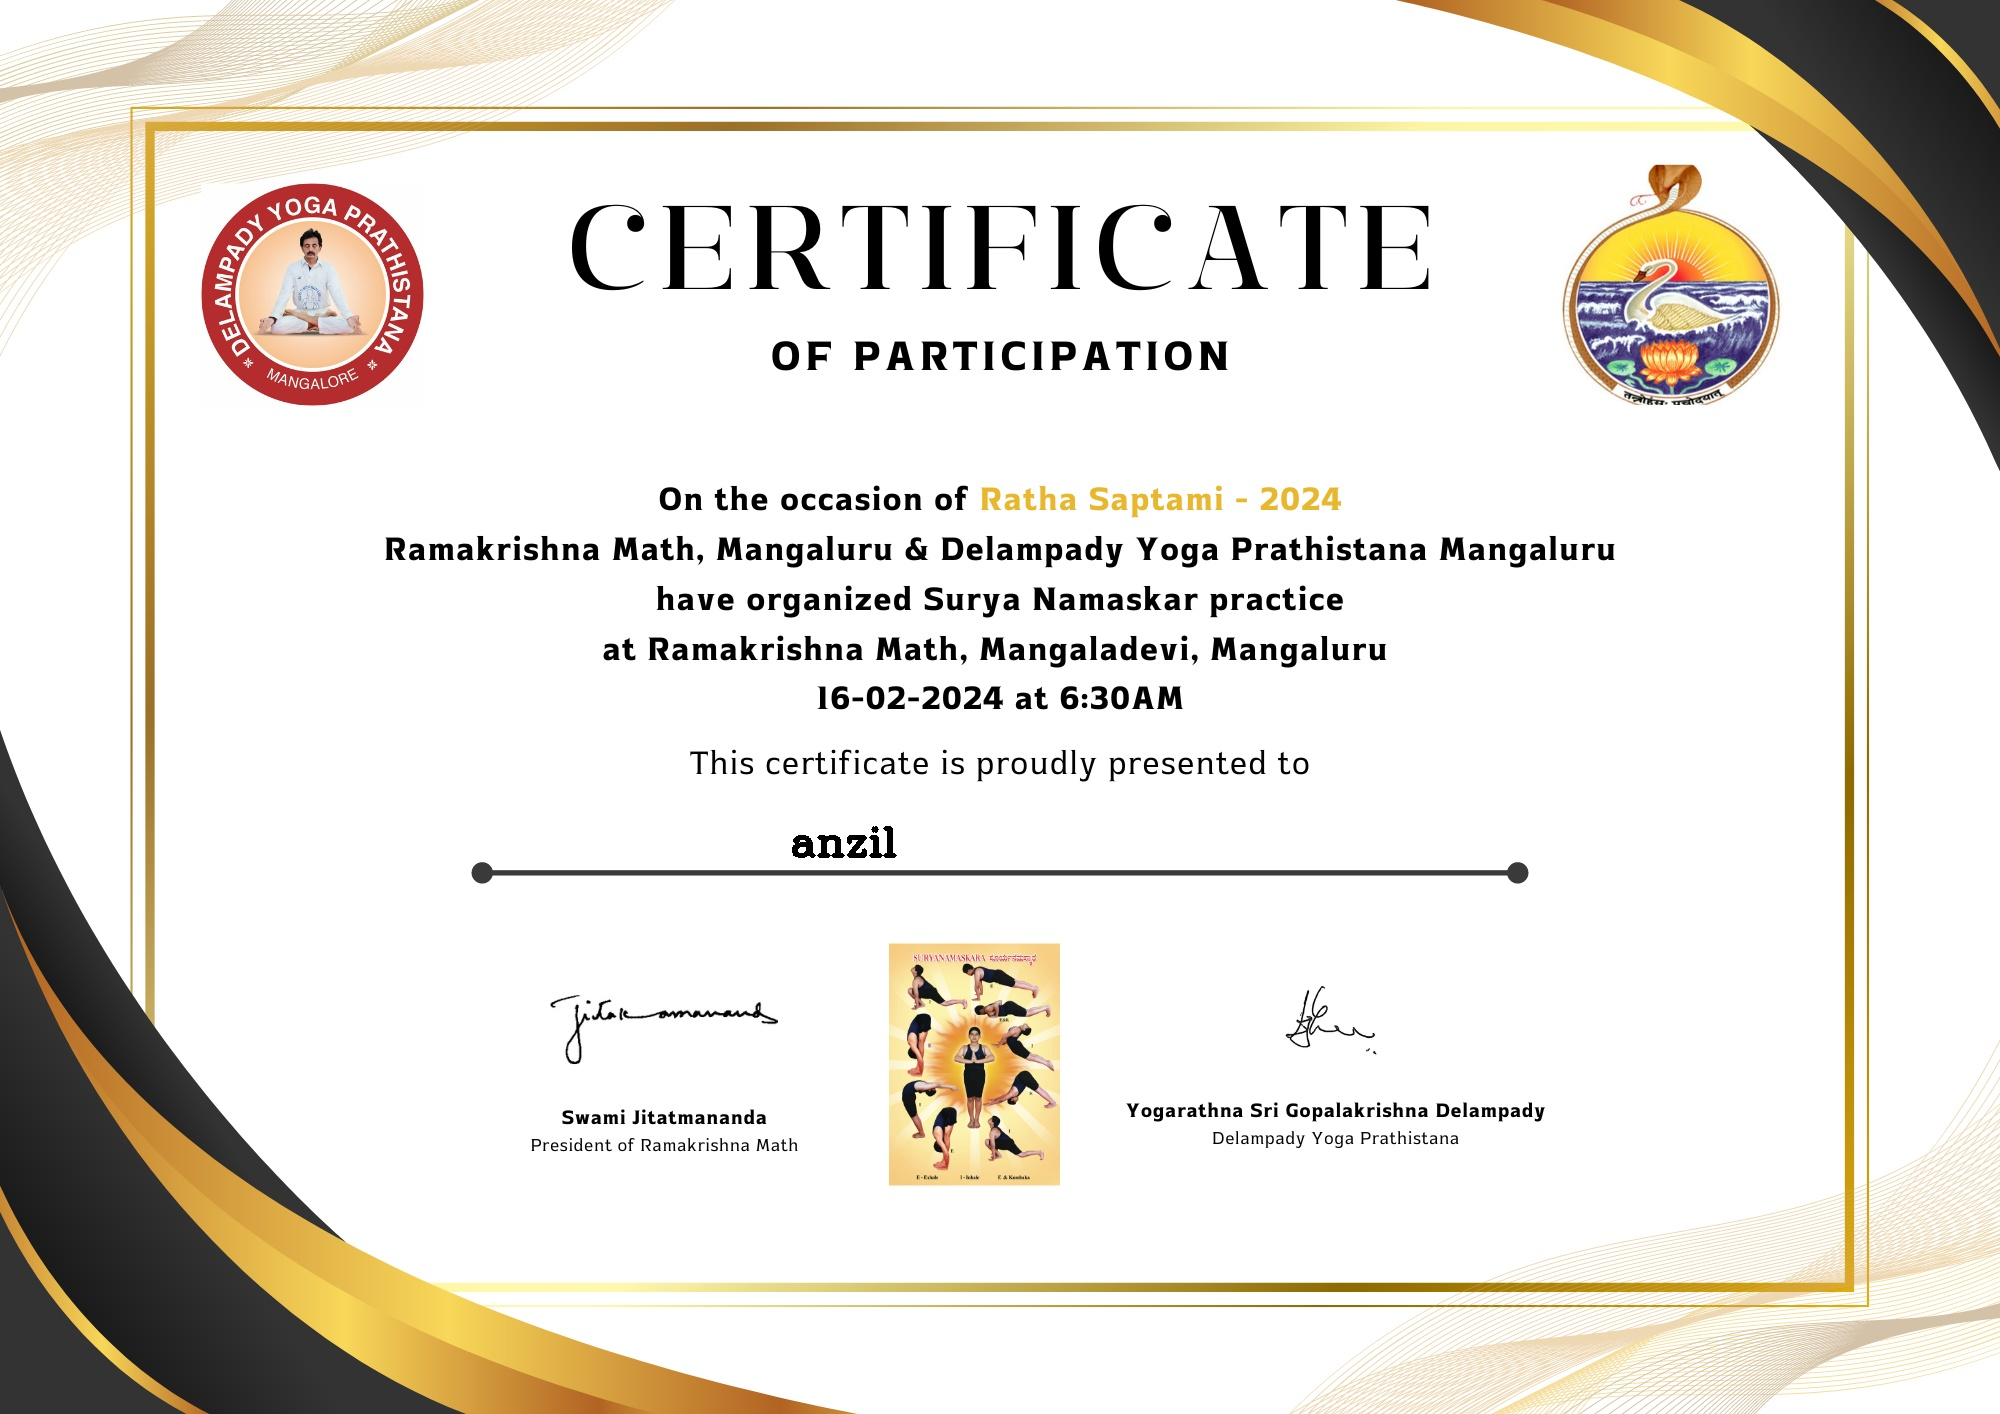
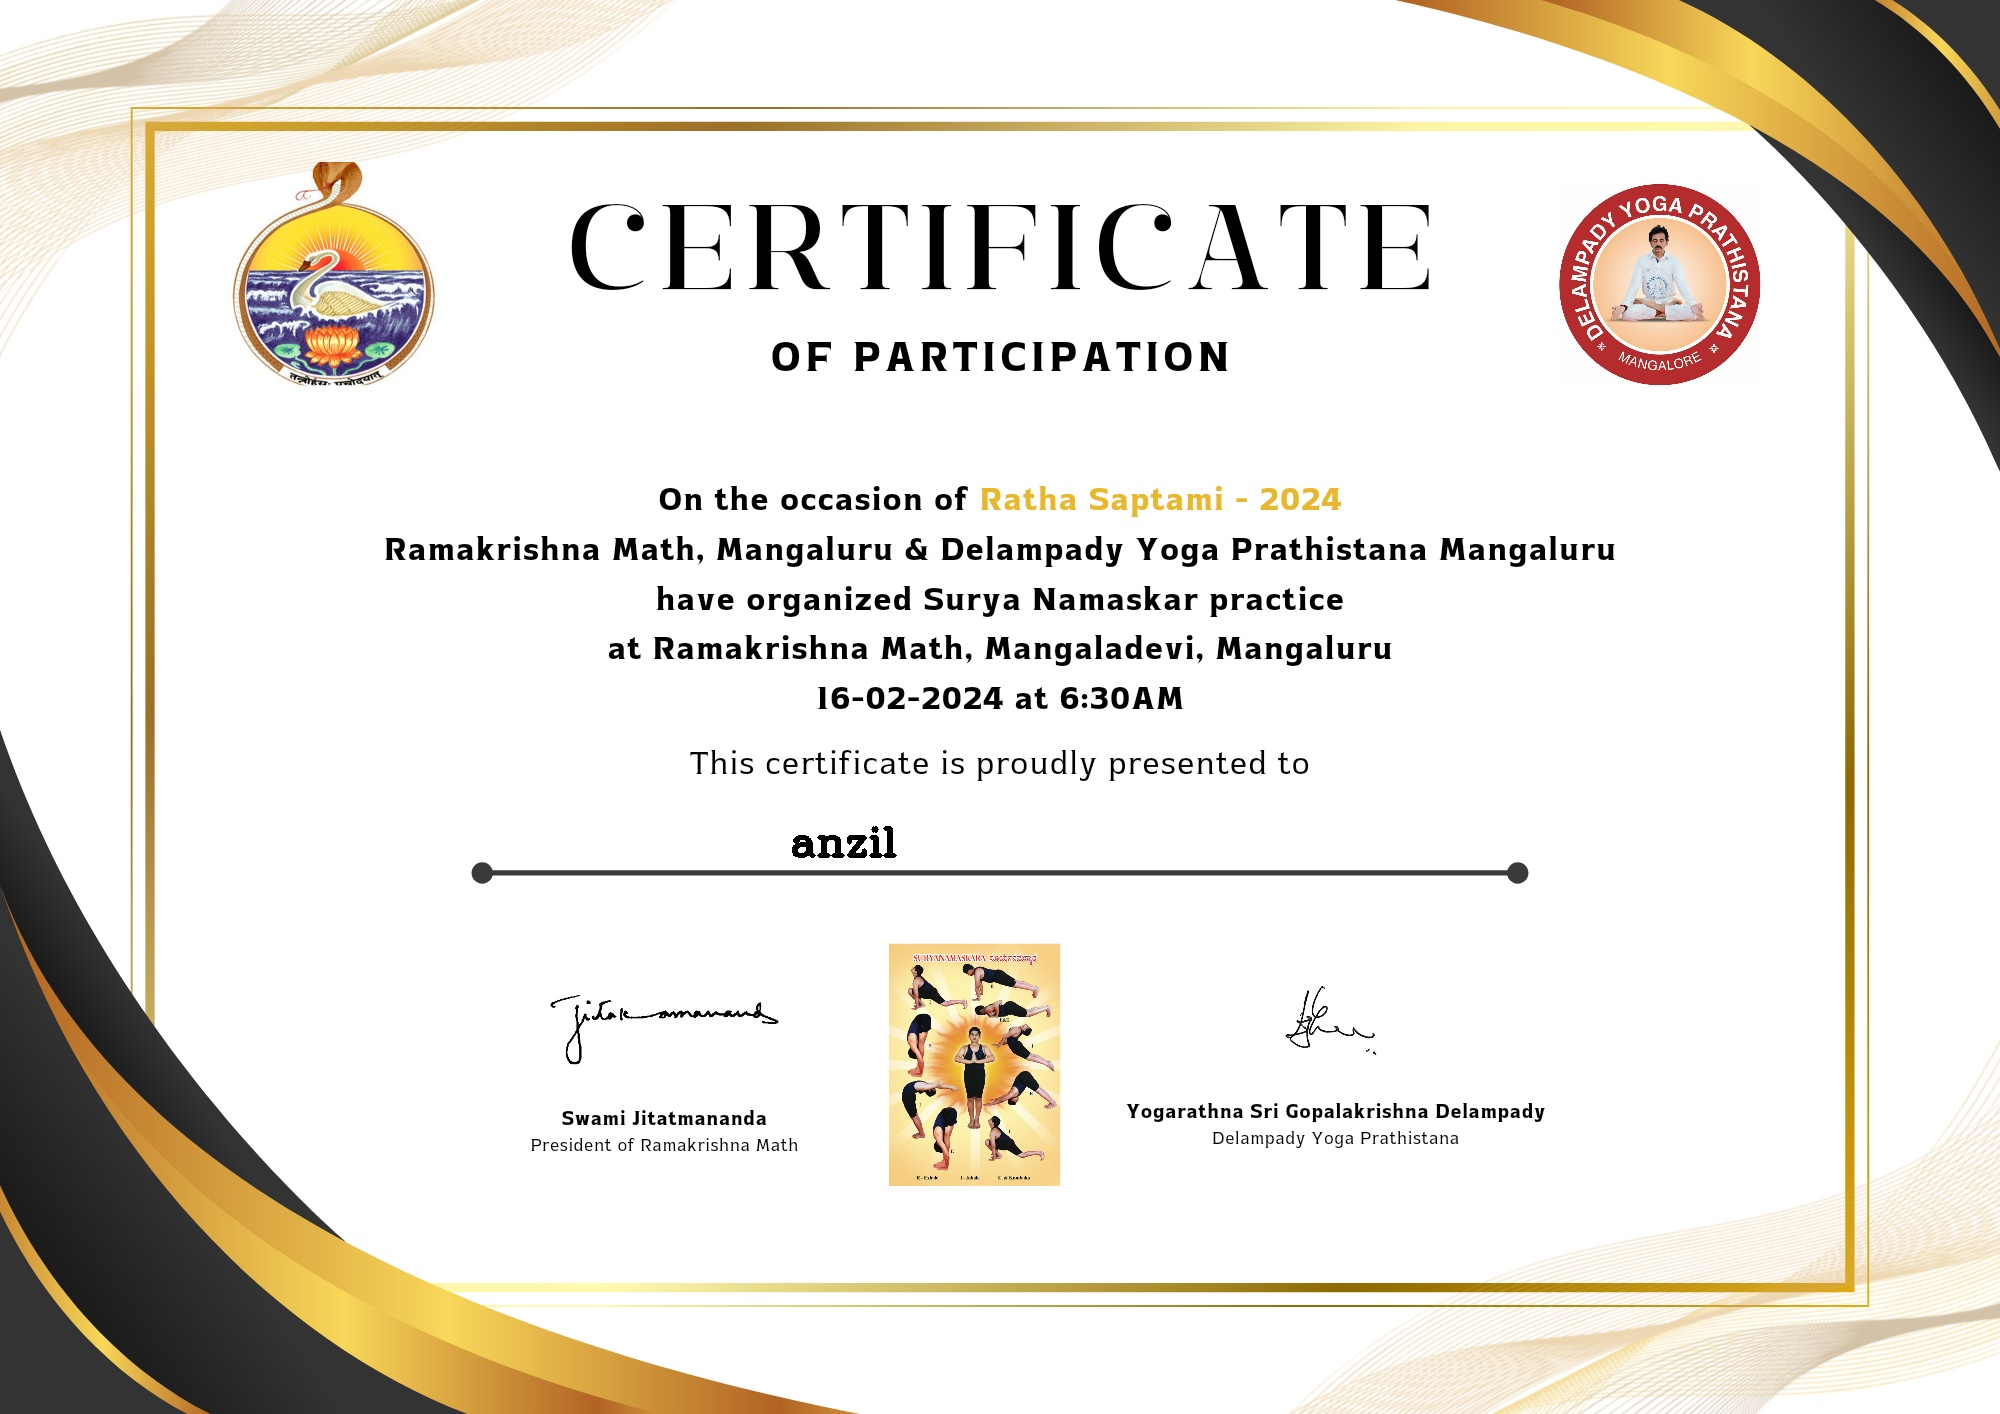
code push

diff --git a/main.py b/main.py
@@ -22,7 +22,7 @@ def send_email(sender_email, sender_password, recipient_email, subject, body, at
         server.send_message(msg)
 
 df = pd.read_csv('info.csv')  
-base_image_path = "Certificate Final v2.png"
+base_image_path = "Certificate v3.png"
 base_image = cv2.imread(base_image_path)
 
 output_folder = "output"
@@ -46,8 +46,8 @@ for index, row in df.iterrows():
     subject = 'Certificate Attached'
     body = f'Hello {name},\n\nPlease find your certificate attached.'
 
-    send_email(sender_email='srujanrai17@gmail.com',
-               sender_password='yufs dyox opvs bezv',
+    send_email(sender_email='yogaparticipationcertificate@gmail.com',
+               sender_password='gvnq hnio yfhv rrkm',
                recipient_email=email,
                subject=subject,
                body=body,
